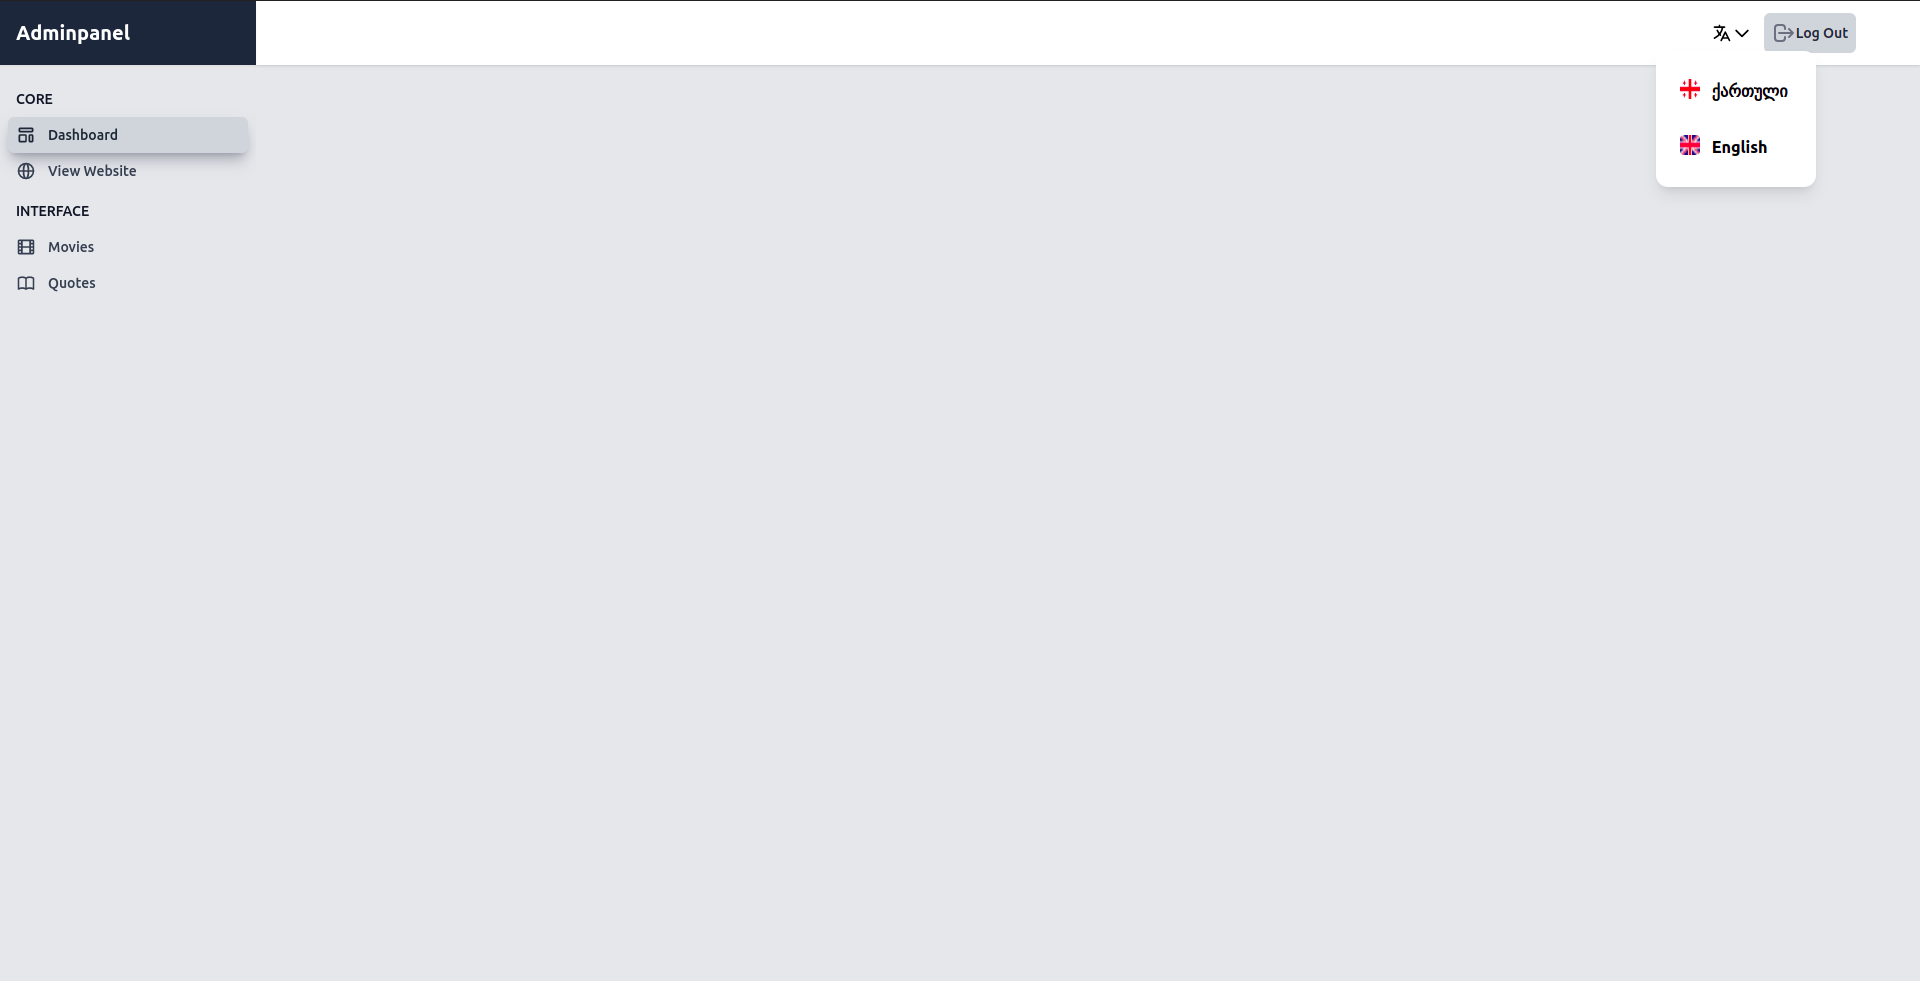
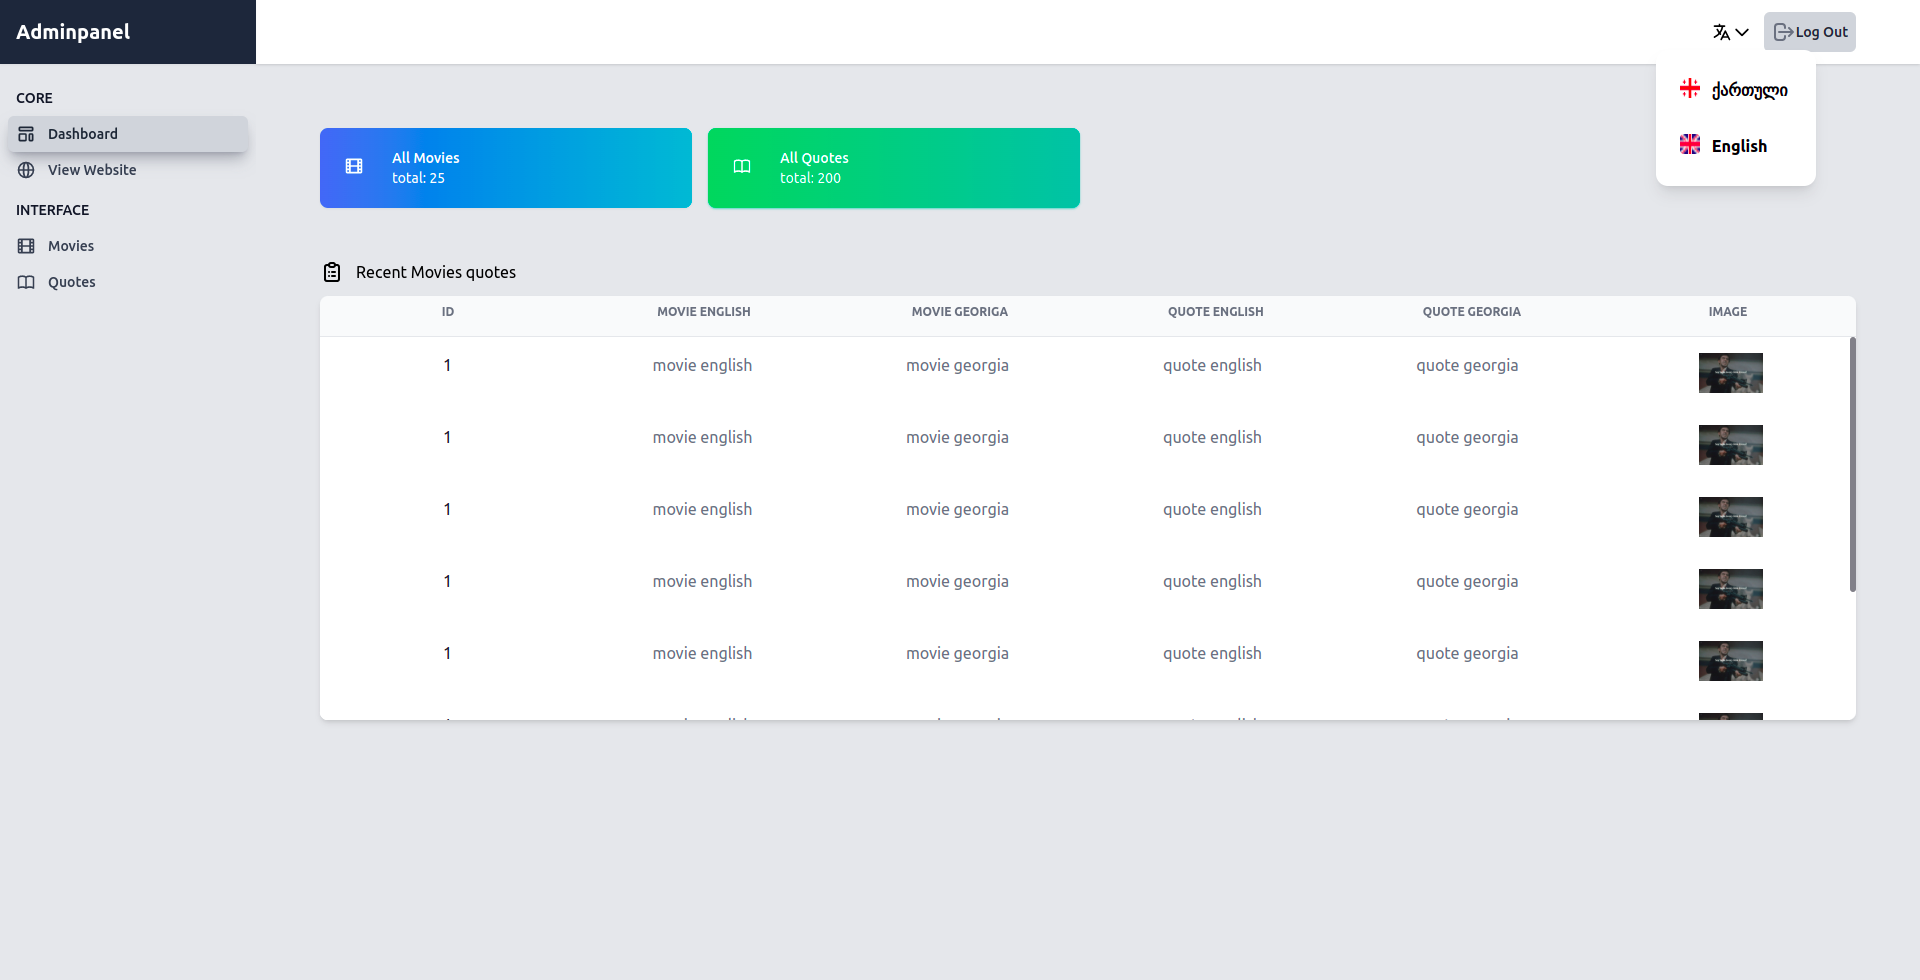
style: create dashboard table

diff --git a/src/components/adminPanel/DashboardTable.vue b/src/components/adminPanel/DashboardTable.vue
@@ -1,0 +1,256 @@
+<template>
+  <div class="flex py-3 mt-10">
+    <ClipboardListIcon
+      class="flex-shrink-0 w-6 h-6 mr-3 text-black dark:text-slate-600"
+    />
+
+    <p class="dark:text-slate-600">Recent Movies quotes</p>
+  </div>
+  <table
+    class="w-full text-center divide-y divide-gray-200 rounded-lg shadow-md dark:divide-slate-700"
+  >
+    <thead
+      class="flex w-full text-white rounded-t-lg bg-gray-50 dark:bg-slate-800"
+    >
+      <tr class="flex w-full mb-2">
+        <th
+          class="w-1/4 p-2 text-xs text-gray-500 uppercase dark:text-slate-600"
+        >
+          id
+        </th>
+        <th
+          class="w-1/4 p-2 text-xs text-gray-500 uppercase dark:text-slate-600"
+        >
+          movie english
+        </th>
+        <th
+          class="w-1/4 p-2 text-xs text-gray-500 uppercase dark:text-slate-600"
+        >
+          movie georiga
+        </th>
+        <th
+          class="w-1/4 p-2 text-xs text-gray-500 uppercase dark:text-slate-600"
+        >
+          quote english
+        </th>
+        <th
+          class="w-1/4 p-2 text-xs text-gray-500 uppercase dark:text-slate-600"
+        >
+          quote georgia
+        </th>
+        <th
+          class="w-1/4 p-2 text-xs text-gray-500 uppercase dark:text-slate-600"
+        >
+          image
+        </th>
+      </tr>
+    </thead>
+    <tbody
+      class="flex flex-col items-center w-full overflow-x-hidden overflow-y-scroll bg-white rounded-b-lg dark:bg-slate-800 h-96"
+    >
+      <tr class="flex w-full bg-white dark:bg-slate-800">
+        <td class="w-1/4 p-4 px-6 text-gray-900 dark:text-slate-600">1</td>
+        <td class="w-1/4 p-4 px-6 text-gray-500 dark:text-slate-600">
+          movie english
+        </td>
+        <td class="w-1/4 p-4 px-6 text-gray-500 dark:text-slate-600">
+          movie georgia
+        </td>
+        <td class="w-1/4 p-4 px-6 text-gray-500 dark:text-slate-600">
+          quote english
+        </td>
+        <td class="w-1/4 p-4 px-6 text-gray-500 dark:text-slate-600">
+          quote georgia
+        </td>
+        <td class="w-1/4 p-4 px-6 text-gray-500 dark:text-slate-600">
+          <img
+            class="ml-20"
+            src="https://lh3.googleusercontent.com/g-W0vwcMvALYROKIaS0t0CQrVKZ6cqqFiibzQ0B9-TLkmEkBmYDyBCgl9RvYDStP-2lzvRBqr6v5wxgaoVlujwEP=w640-h400-e365-rj-sc0x00ffffff"
+            width="64"
+            height="64"
+            alt="movie img"
+          />
+        </td>
+      </tr>
+      <tr class="flex w-full bg-white dark:bg-slate-800">
+        <td class="w-1/4 p-4 px-6 text-gray-900 dark:text-slate-600">1</td>
+        <td class="w-1/4 p-4 px-6 text-gray-500 dark:text-slate-600">
+          movie english
+        </td>
+        <td class="w-1/4 p-4 px-6 text-gray-500 dark:text-slate-600">
+          movie georgia
+        </td>
+        <td class="w-1/4 p-4 px-6 text-gray-500 dark:text-slate-600">
+          quote english
+        </td>
+        <td class="w-1/4 p-4 px-6 text-gray-500 dark:text-slate-600">
+          quote georgia
+        </td>
+        <td class="w-1/4 p-4 px-6 text-gray-500 dark:text-slate-600">
+          <img
+            class="ml-20"
+            src="https://lh3.googleusercontent.com/g-W0vwcMvALYROKIaS0t0CQrVKZ6cqqFiibzQ0B9-TLkmEkBmYDyBCgl9RvYDStP-2lzvRBqr6v5wxgaoVlujwEP=w640-h400-e365-rj-sc0x00ffffff"
+            width="64"
+            height="64"
+            alt="movie img"
+          />
+        </td>
+      </tr>
+      <tr class="flex w-full bg-white dark:bg-slate-800">
+        <td class="w-1/4 p-4 px-6 text-gray-900 dark:text-slate-600">1</td>
+        <td class="w-1/4 p-4 px-6 text-gray-500 dark:text-slate-600">
+          movie english
+        </td>
+        <td class="w-1/4 p-4 px-6 text-gray-500 dark:text-slate-600">
+          movie georgia
+        </td>
+        <td class="w-1/4 p-4 px-6 text-gray-500 dark:text-slate-600">
+          quote english
+        </td>
+        <td class="w-1/4 p-4 px-6 text-gray-500 dark:text-slate-600">
+          quote georgia
+        </td>
+        <td class="w-1/4 p-4 px-6 text-gray-500 dark:text-slate-600">
+          <img
+            class="ml-20"
+            src="https://lh3.googleusercontent.com/g-W0vwcMvALYROKIaS0t0CQrVKZ6cqqFiibzQ0B9-TLkmEkBmYDyBCgl9RvYDStP-2lzvRBqr6v5wxgaoVlujwEP=w640-h400-e365-rj-sc0x00ffffff"
+            width="64"
+            height="64"
+            alt="movie img"
+          />
+        </td>
+      </tr>
+      <tr class="flex w-full bg-white dark:bg-slate-800">
+        <td class="w-1/4 p-4 px-6 text-gray-900 dark:text-slate-600">1</td>
+        <td class="w-1/4 p-4 px-6 text-gray-500 dark:text-slate-600">
+          movie english
+        </td>
+        <td class="w-1/4 p-4 px-6 text-gray-500 dark:text-slate-600">
+          movie georgia
+        </td>
+        <td class="w-1/4 p-4 px-6 text-gray-500 dark:text-slate-600">
+          quote english
+        </td>
+        <td class="w-1/4 p-4 px-6 text-gray-500 dark:text-slate-600">
+          quote georgia
+        </td>
+        <td class="w-1/4 p-4 px-6 text-gray-500 dark:text-slate-600">
+          <img
+            class="ml-20"
+            src="https://lh3.googleusercontent.com/g-W0vwcMvALYROKIaS0t0CQrVKZ6cqqFiibzQ0B9-TLkmEkBmYDyBCgl9RvYDStP-2lzvRBqr6v5wxgaoVlujwEP=w640-h400-e365-rj-sc0x00ffffff"
+            width="64"
+            height="64"
+            alt="movie img"
+          />
+        </td>
+      </tr>
+      <tr class="flex w-full bg-white dark:bg-slate-800">
+        <td class="w-1/4 p-4 px-6 text-gray-900 dark:text-slate-600">1</td>
+        <td class="w-1/4 p-4 px-6 text-gray-500 dark:text-slate-600">
+          movie english
+        </td>
+        <td class="w-1/4 p-4 px-6 text-gray-500 dark:text-slate-600">
+          movie georgia
+        </td>
+        <td class="w-1/4 p-4 px-6 text-gray-500 dark:text-slate-600">
+          quote english
+        </td>
+        <td class="w-1/4 p-4 px-6 text-gray-500 dark:text-slate-600">
+          quote georgia
+        </td>
+        <td class="w-1/4 p-4 px-6 text-gray-500 dark:text-slate-600">
+          <img
+            class="ml-20"
+            src="https://lh3.googleusercontent.com/g-W0vwcMvALYROKIaS0t0CQrVKZ6cqqFiibzQ0B9-TLkmEkBmYDyBCgl9RvYDStP-2lzvRBqr6v5wxgaoVlujwEP=w640-h400-e365-rj-sc0x00ffffff"
+            width="64"
+            height="64"
+            alt="movie img"
+          />
+        </td>
+      </tr>
+      <tr class="flex w-full bg-white dark:bg-slate-800">
+        <td class="w-1/4 p-4 px-6 text-gray-900 dark:text-slate-600">1</td>
+        <td class="w-1/4 p-4 px-6 text-gray-500 dark:text-slate-600">
+          movie english
+        </td>
+        <td class="w-1/4 p-4 px-6 text-gray-500 dark:text-slate-600">
+          movie georgia
+        </td>
+        <td class="w-1/4 p-4 px-6 text-gray-500 dark:text-slate-600">
+          quote english
+        </td>
+        <td class="w-1/4 p-4 px-6 text-gray-500 dark:text-slate-600">
+          quote georgia
+        </td>
+        <td class="w-1/4 p-4 px-6 text-gray-500 dark:text-slate-600">
+          <img
+            class="ml-20"
+            src="https://lh3.googleusercontent.com/g-W0vwcMvALYROKIaS0t0CQrVKZ6cqqFiibzQ0B9-TLkmEkBmYDyBCgl9RvYDStP-2lzvRBqr6v5wxgaoVlujwEP=w640-h400-e365-rj-sc0x00ffffff"
+            width="64"
+            height="64"
+            alt="movie img"
+          />
+        </td>
+      </tr>
+      <tr class="flex w-full bg-white dark:bg-slate-800">
+        <td class="w-1/4 p-4 px-6 text-gray-900 dark:text-slate-600">1</td>
+        <td class="w-1/4 p-4 px-6 text-gray-500 dark:text-slate-600">
+          movie english
+        </td>
+        <td class="w-1/4 p-4 px-6 text-gray-500 dark:text-slate-600">
+          movie georgia
+        </td>
+        <td class="w-1/4 p-4 px-6 text-gray-500 dark:text-slate-600">
+          quote english
+        </td>
+        <td class="w-1/4 p-4 px-6 text-gray-500 dark:text-slate-600">
+          quote georgia
+        </td>
+        <td class="w-1/4 p-4 px-6 text-gray-500 dark:text-slate-600">
+          <img
+            class="ml-20"
+            src="https://lh3.googleusercontent.com/g-W0vwcMvALYROKIaS0t0CQrVKZ6cqqFiibzQ0B9-TLkmEkBmYDyBCgl9RvYDStP-2lzvRBqr6v5wxgaoVlujwEP=w640-h400-e365-rj-sc0x00ffffff"
+            width="64"
+            height="64"
+            alt="movie img"
+          />
+        </td>
+      </tr>
+      <tr class="flex w-full bg-white dark:bg-slate-800">
+        <td class="w-1/4 p-4 px-6 text-gray-900 dark:text-slate-600">1</td>
+        <td class="w-1/4 p-4 px-6 text-gray-500 dark:text-slate-600">
+          movie english
+        </td>
+        <td class="w-1/4 p-4 px-6 text-gray-500 dark:text-slate-600">
+          movie georgia
+        </td>
+        <td class="w-1/4 p-4 px-6 text-gray-500 dark:text-slate-600">
+          quote english
+        </td>
+        <td class="w-1/4 p-4 px-6 text-gray-500 dark:text-slate-600">
+          quote georgia
+        </td>
+        <td class="w-1/4 p-4 px-6 text-gray-500 dark:text-slate-600">
+          <img
+            class="ml-20"
+            src="https://lh3.googleusercontent.com/g-W0vwcMvALYROKIaS0t0CQrVKZ6cqqFiibzQ0B9-TLkmEkBmYDyBCgl9RvYDStP-2lzvRBqr6v5wxgaoVlujwEP=w640-h400-e365-rj-sc0x00ffffff"
+            width="64"
+            height="64"
+            alt="movie img"
+          />
+        </td>
+      </tr>
+    </tbody>
+  </table>
+</template>
+
+<script>
+import { ClipboardListIcon } from "@heroicons/vue/outline";
+export default {
+  components: {
+    ClipboardListIcon,
+  },
+};
+</script>
+
+<style></style>

diff --git a/src/adminPanel/DashboardItem.vue b/src/adminPanel/DashboardItem.vue
@@ -5,25 +5,30 @@
         color="bg-gradient-to-r from-blue-500 to-cyan-500 shadow-lgshadow-cyan-500/50 hover:from-indigo-500 hover:to-pink-500 hover:shadow-red-600/50"
         name="All Movies"
         path="/admin/movies"
+        :data="25"
         :icon="FilmIcon"
       />
       <DashboardCard
         color="bg-gradient-to-r from-green-500 to-teal-500 shadow-lg shadow-teal-500/50 hover:from-yellow-500 hover:to-red-500 hover:shadow-green-600/50"
         name="All Quotes"
         path="/admin/quotes"
+        :data="200"
         :icon="BookOpenIcon"
       />
     </div>
+    <DashboardTable />
   </div>
 </template>
 
 <script>
 import DashboardCard from "../components/adminPanel/DashboardCard.vue";
 import { FilmIcon, BookOpenIcon } from "@heroicons/vue/outline";
+import DashboardTable from "../components/adminPanel/DashboardTable.vue";
 
 export default {
   components: {
     DashboardCard,
+    DashboardTable,
   },
   data() {
     return {

diff --git a/src/index.css b/src/index.css
@@ -1,3 +1,25 @@
 @tailwind base;
 @tailwind components;
 @tailwind utilities;
+
+/* width */
+::-webkit-scrollbar {
+    width: 6px;
+    height: 56px;
+  }
+  
+  /* Track */
+  ::-webkit-scrollbar-track {
+    border-radius: 100vh;
+  }
+  
+  /* Handle */
+  ::-webkit-scrollbar-thumb {
+    background: #808189;
+    border-radius: 100vh;
+  }
+  
+  /* Handle on hover */
+  ::-webkit-scrollbar-thumb:hover {
+    background: #808189;
+  }
